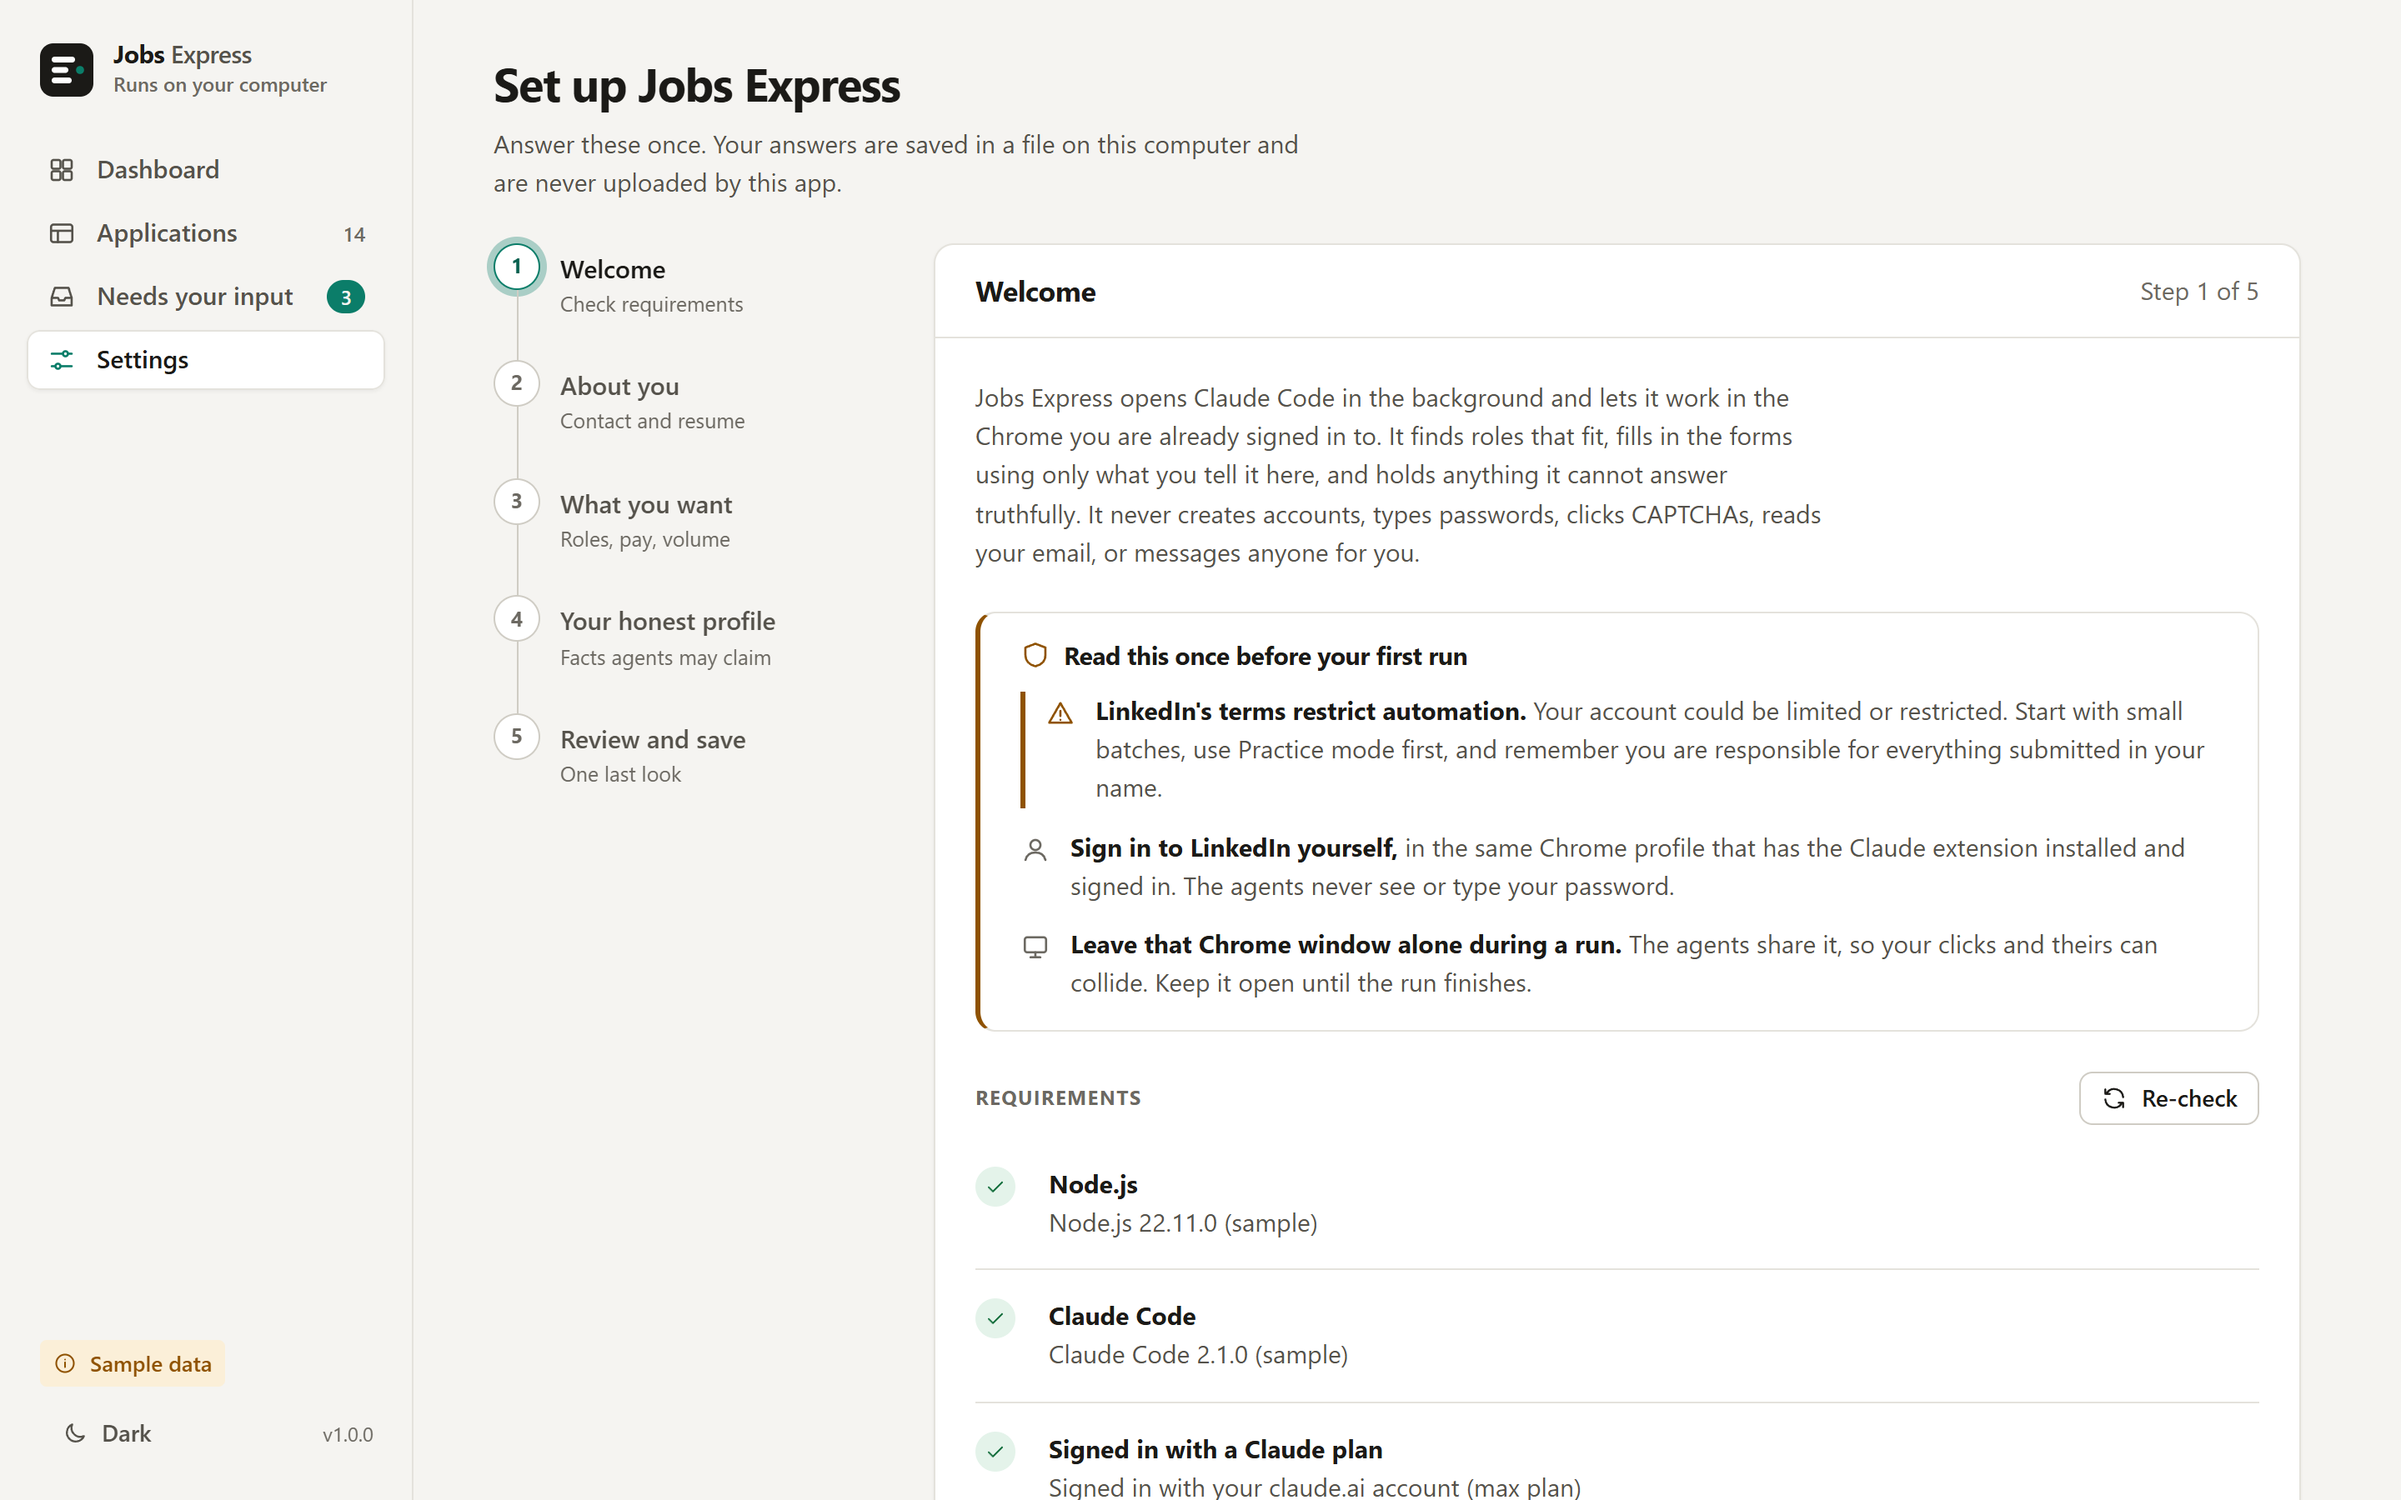
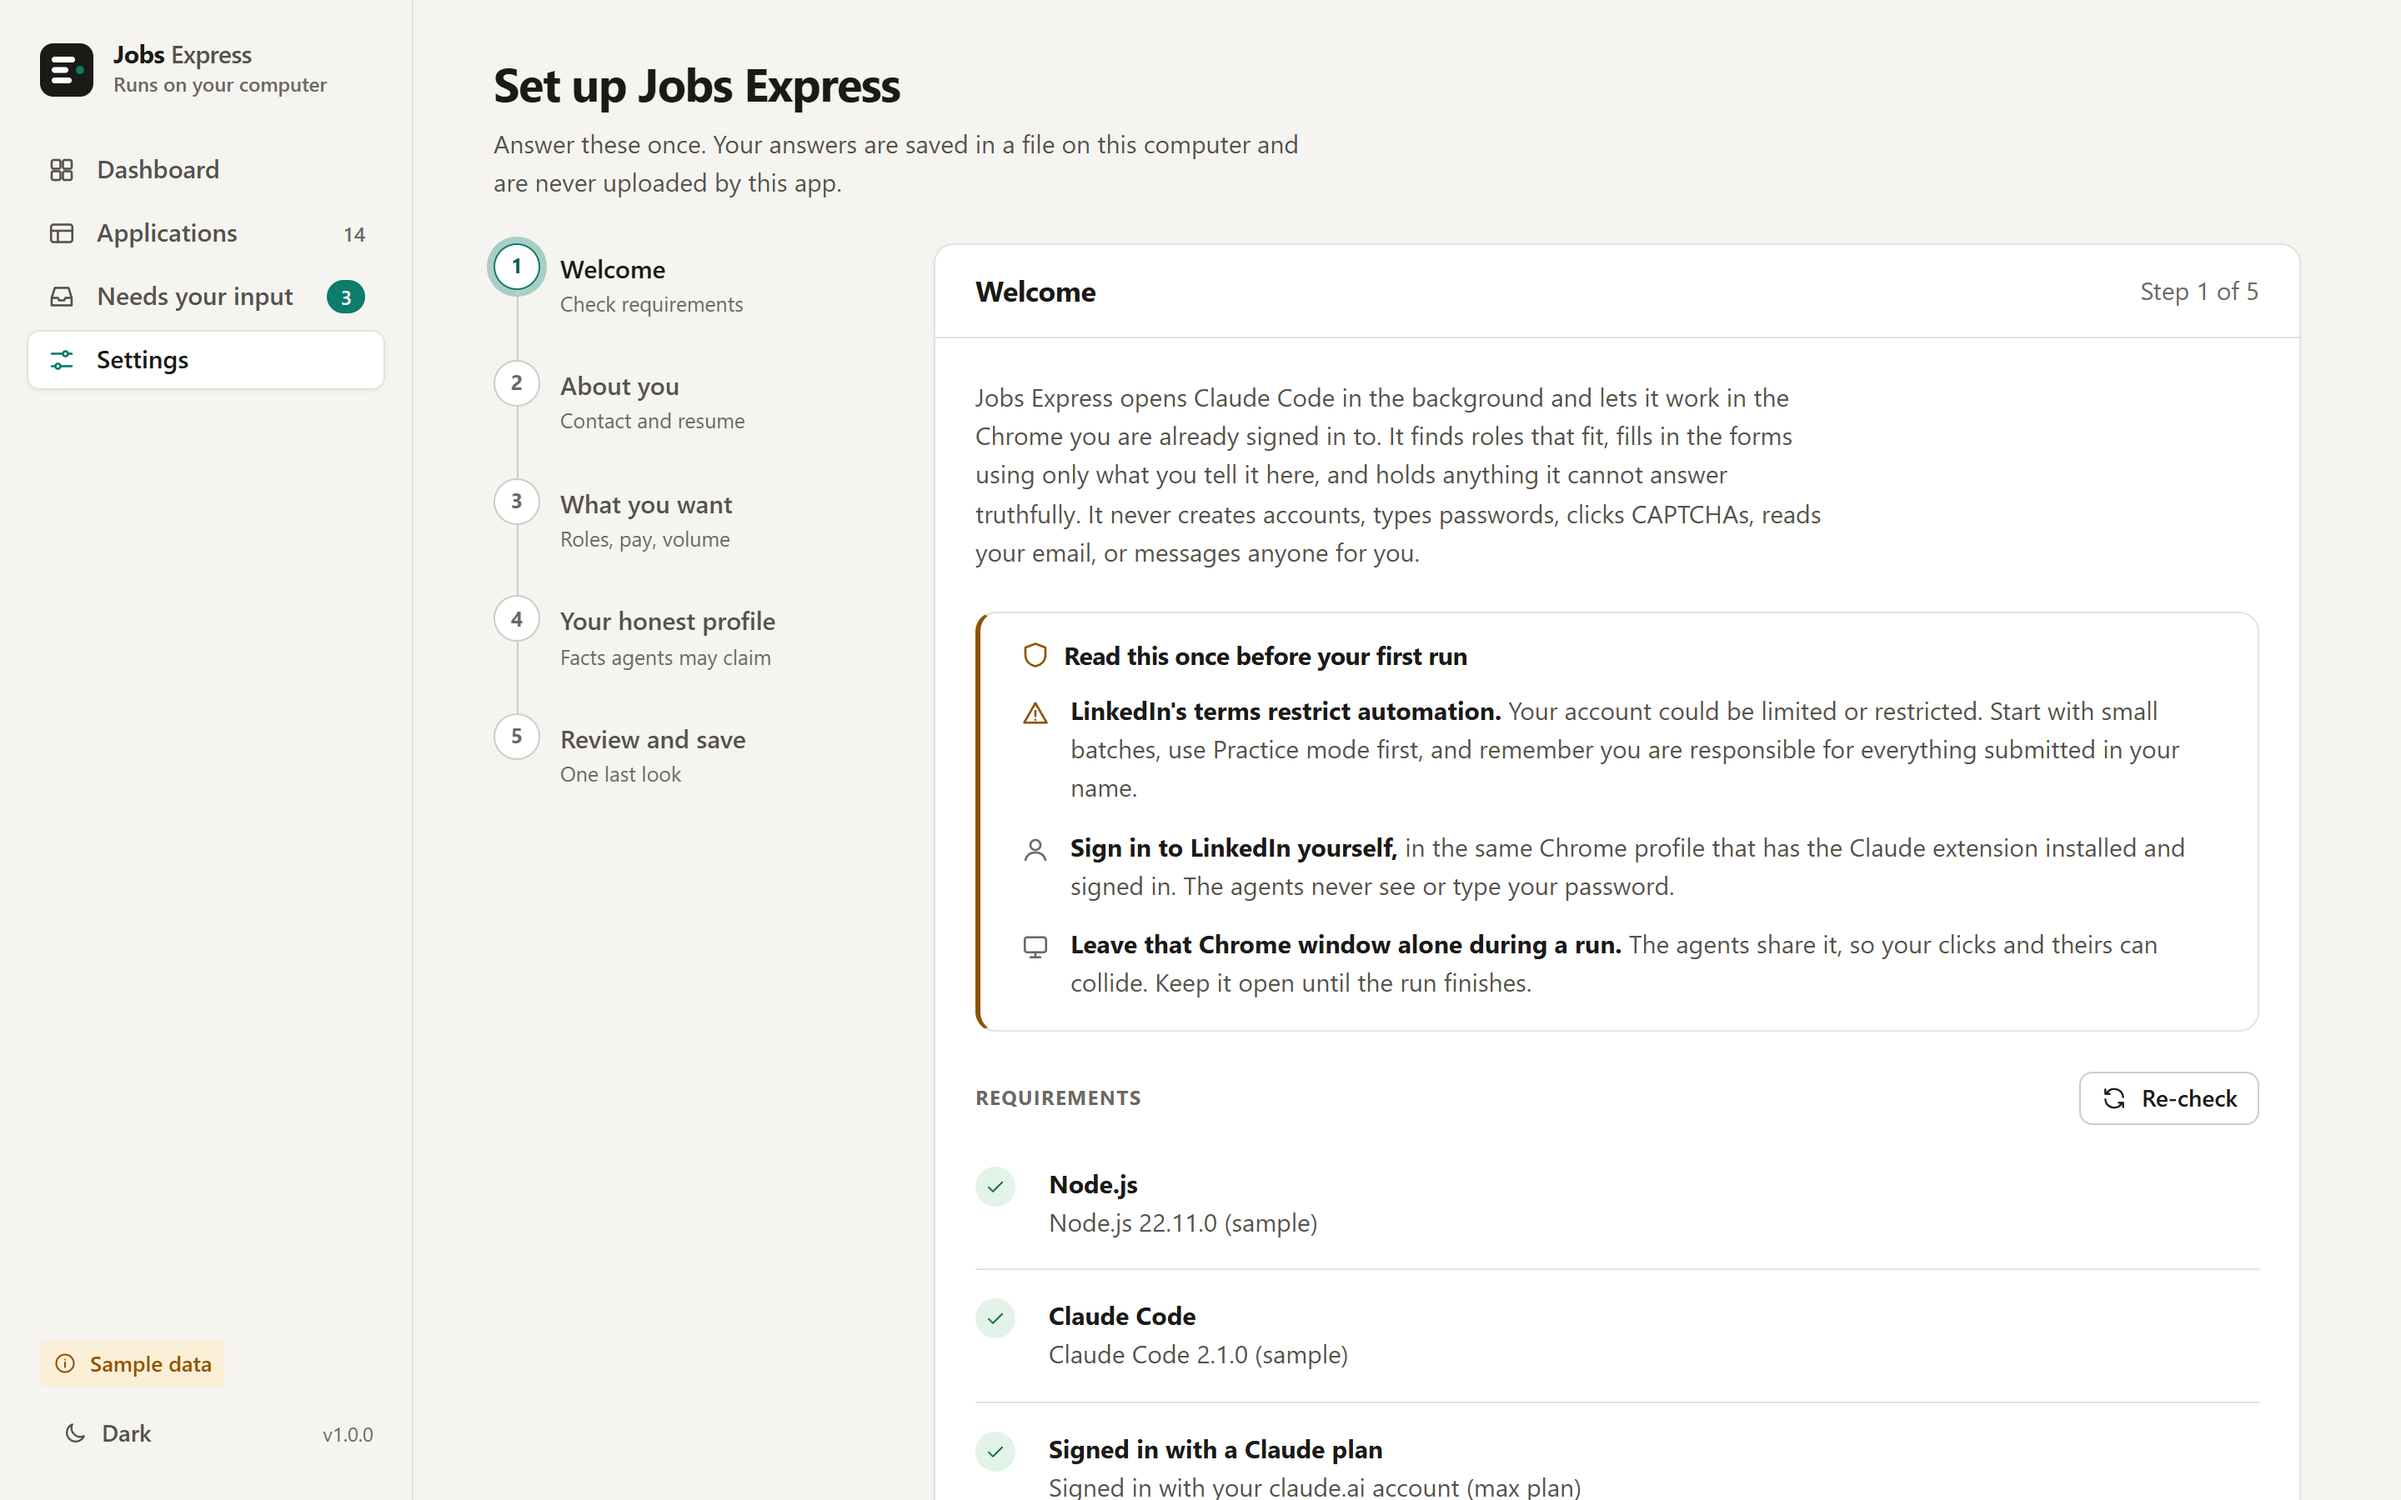
Fix stretched phone frames in demo.gif, tablet table collapse, wrapped phone filters, quieter required tags

Changed region(s): [[0.4062, 0.4667, 0.9062, 0.5289]]

diff --git a/public/app.css b/public/app.css
@@ -273,6 +273,8 @@ svg { flex: none; }
 .chip[aria-pressed="true"] svg { display: block; }
 .chip.removable { cursor: default; background: var(--surface-3); border-color: transparent; color: var(--text); }
 .chip.removable button { all: unset; display: grid; place-items: center; width: 20px; height: 20px; border-radius: var(--pill); cursor: pointer; color: var(--text-3); }
+.chip.removable button { position: relative; }
+.chip.removable button::after { content: ""; position: absolute; inset: -8px; }
 .chip.removable button:hover { background: var(--border-strong); color: var(--text); }
 .chip.removable button:focus-visible { outline: 2px solid var(--accent); }
 
@@ -474,7 +476,7 @@ table.apps { width: 100%; border-collapse: collapse; }
 .apps .pay { white-space: nowrap; color: var(--text-2); }
 .apps .when { white-space: nowrap; color: var(--text-3); }
 .apps .src { color: var(--text-2); white-space: nowrap; }
-@media (max-width: 720px) {
+@media (max-width: 900px) {
   .apps thead { display: none; }
   .apps, .apps tbody, .apps tr, .apps td { display: block; width: 100%; }
   .apps tr { padding: 12px var(--s4); border-bottom: 1px solid var(--border); display: grid; grid-template-columns: 1fr auto; gap: 4px var(--s3); }
@@ -543,7 +545,6 @@ code { font-family: var(--mono); font-size: 0.92em; background: var(--surface-3)
 
 /* ---------- additions ---------- */
 .req { font-size: 12px; font-weight: 600; color: var(--text-3); margin-left: var(--s2); text-transform: uppercase; letter-spacing: 0.05em; }
-.notice .lead { border-left: 3px solid var(--warn); padding-left: var(--s3); }
 .notice .lead svg { color: var(--warn); }
 .notice .lead b { color: var(--text); }
 .lede-block { color: var(--text-2); max-width: 64ch; }
@@ -551,7 +552,7 @@ code { font-family: var(--mono); font-size: 0.92em; background: var(--surface-3)
 .flat-head { display: flex; align-items: center; justify-content: space-between; gap: var(--s3); margin-bottom: var(--s2); }
 .flat-head .section-title { margin: 0; }
 .flat .check-row { padding-left: 0; padding-right: 0; }
-.run-panel.live .run-cta { background: var(--warn-soft); box-shadow: inset 0 3px 0 var(--warn); }
+.run-panel.live .run-cta { background: var(--warn-soft); box-shadow: inset 0 0 0 1px color-mix(in srgb, var(--warn) 45%, transparent); }
 .run-panel.live .run-cta small { color: var(--warn); font-weight: 600; }
 .live-flag { display: inline-flex; align-items: center; gap: var(--s2); color: var(--warn); font-weight: 650; }
 .run-state.reserve { min-height: 28px; }
@@ -583,4 +584,18 @@ code { font-family: var(--mono); font-size: 0.92em; background: var(--surface-3)
   .wizard-foot .btn.primary { flex: 1 1 100%; }
   .wizard-foot { flex-direction: column-reverse; align-items: stretch; }
   .wizard-foot .step-note { max-width: none; }
+}
+
+/* phone polish */
+@media (max-width: 600px) {
+  .seg-wrap { overflow: visible; }
+  .seg-wrap .seg { display: flex; flex-wrap: wrap; width: 100%; }
+  .seg-wrap .seg button { flex: 1 1 auto; justify-content: center; }
+  .savebar { flex-direction: column; align-items: stretch; }
+  .savebar .page-actions { display: grid; grid-template-columns: 1fr 1fr; }
+}
+@media (pointer: coarse) {
+  .check input { width: 24px; height: 24px; margin-top: 0; }
+  .btn.sm.icon-only { min-width: 40px; }
+  .chip.removable button { width: 28px; height: 28px; }
 }

diff --git a/public/js/view-settings.js b/public/js/view-settings.js
@@ -72,7 +72,7 @@ function answersPanel() {
     const qa = S.info.profile.qa;
     mount(host,
       h('div', { class: 'panel-head' }, h('h2', {}, 'Saved answers'), h('span', { class: 'faint' }, `${qa.length} saved`)),
-      h('div', { class: 'fieldset' }, h('p', { class: 'lede', style: { marginBottom: 0 } }, 'Answers you gave on the Needs your input page. Agents use these word for word whenever the same question comes up again. Remove one to be asked again.')),
+      qa.length ? h('div', { class: 'fieldset' }, h('p', { class: 'lede', style: { marginBottom: 0 } }, 'Answers you gave on the Needs your input page. Agents use these word for word whenever the same question comes up again. Remove one to be asked again.')) : null,
       qa.length
         ? qa.map((x) => h('div', { class: 'qa-row' }, h('div', {}, h('div', { class: 'q' }, x.q), h('div', { class: 'a' }, x.a)), button({ icon: 'trash', kind: 'ghost', size: 'sm', title: 'Remove this answer', onClick: () => remove(x) })))
         : emptyState({ iconName: 'inbox', title: 'Nothing saved yet', body: 'When an agent cannot answer a question honestly, it shows up in Needs your input. Your answer is saved here and reused.', action: button({ label: 'Go to Needs your input', size: 'sm', onClick: () => go('/input') }) }));

diff --git a/public/js/view-dashboard.js b/public/js/view-dashboard.js
@@ -93,7 +93,7 @@ export function dashboardView() {
       mount(cta,
         chosen.mode === 'live' ? h('div', { class: 'live-flag' }, icon('alert', 16), 'Live mode: real applications') : null,
         startBtn,
-        h('small', {}, blk.length ? 'Finish the items on the left to start.' : chosen.mode === 'live' ? `Live · sends real applications · ${chosen.agents} agent${chosen.agents > 1 ? 's' : ''} · up to ${perRun}` : `Practice · ${chosen.agents} agent${chosen.agents > 1 ? 's' : ''} · up to ${perRun} applications`),
+        h('small', {}, blk.length ? 'Finish the items on the left to start.' : chosen.mode === 'live' ? `Live · ${chosen.agents} agent${chosen.agents > 1 ? 's' : ''} · up to ${perRun}` : `Practice · ${chosen.agents} agent${chosen.agents > 1 ? 's' : ''} · up to ${perRun} applications`),
         S.retryable > 0 ? button({ label: `Re-run ${S.retryable} answered held`, icon: 'refresh', size: 'sm', disabled: blk.length > 0, onClick: () => start('held') }) : null,
       );
     }

diff --git a/public/app.js b/public/app.js
@@ -59,7 +59,7 @@ function drawShellBits() {
     return h('a', {
       class: `nav-item ${locked ? 'disabled' : ''}`, href: '#' + path, 'aria-current': active ? 'page' : null,
       'aria-disabled': locked ? 'true' : null, title: locked ? 'Finish setup first' : null,
-      onClick: locked ? (e) => e.preventDefault() : null,
+      onClick: locked ? (e) => { e.preventDefault(); toast('Finish setup first. It takes a few minutes.'); } : null,
     }, icon(ic, 18), name === 'input' ? [h('span', { class: 'long' }, label), h('span', { class: 'short' }, 'Needs input')] : h('span', {}, label),
       count ? h('span', { class: `nav-count ${name === 'input' ? 'attn' : ''}`, 'aria-label': `${count} items` }, String(count)) : null);
   }));

diff --git a/public/js/components.js b/public/js/components.js
@@ -39,7 +39,7 @@ export function field(label, control, { hint, required, span, id } = {}) {
   if (target && hint) target.setAttribute('aria-describedby', `${fid}-hint`);
   if (target && required === true) target.setAttribute('aria-required', 'true');
   return h('div', { class: `field ${span ? 'span-2' : ''}` },
-    label ? h('label', { for: fid }, label, required === false ? h('span', { class: 'req' }, ' (optional)') : required === true ? h('span', { class: 'req' }, 'Required') : null) : null,
+    label ? h('label', { for: fid }, label, required === true ? h('span', { class: 'req' }, 'Required') : null) : null,
     control,
     hint ? h('div', { class: 'hint', id: `${fid}-hint` }, hint) : null,
   );
